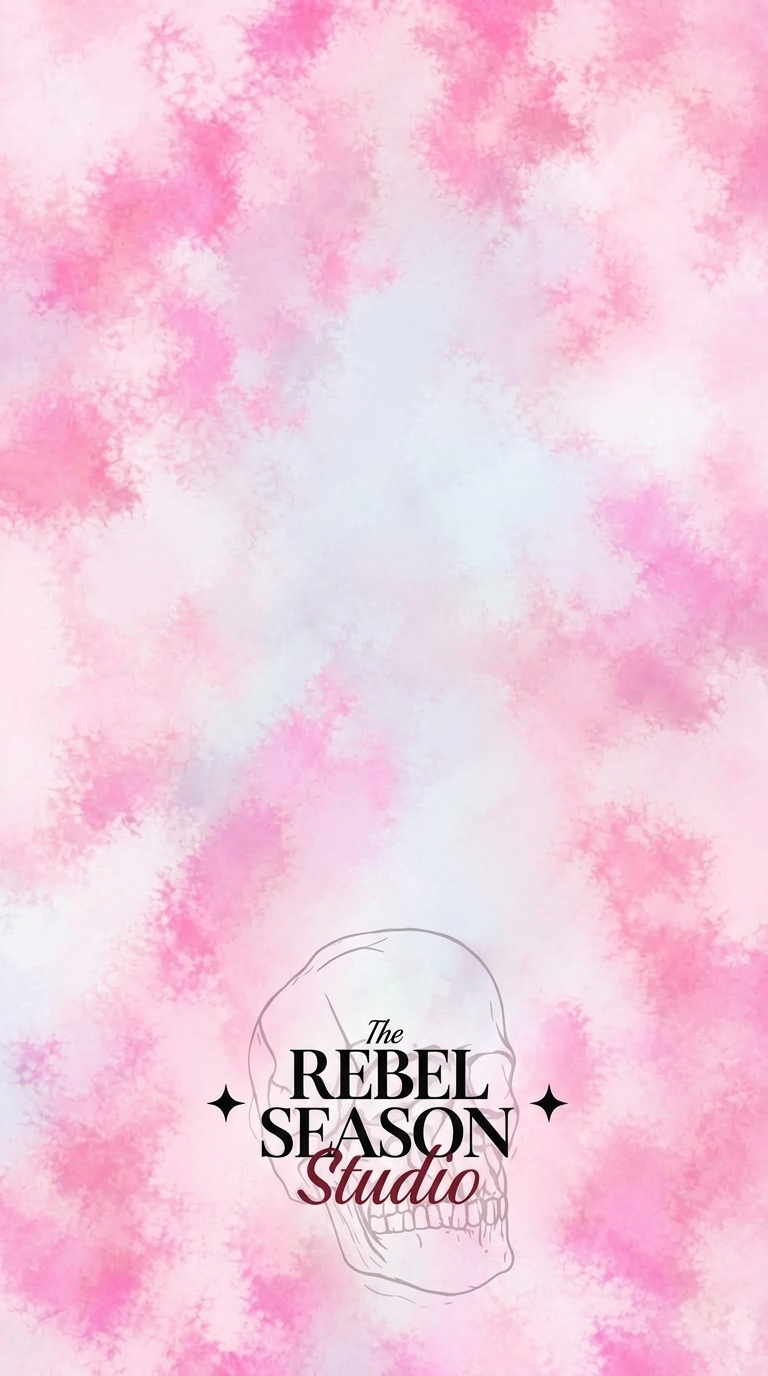
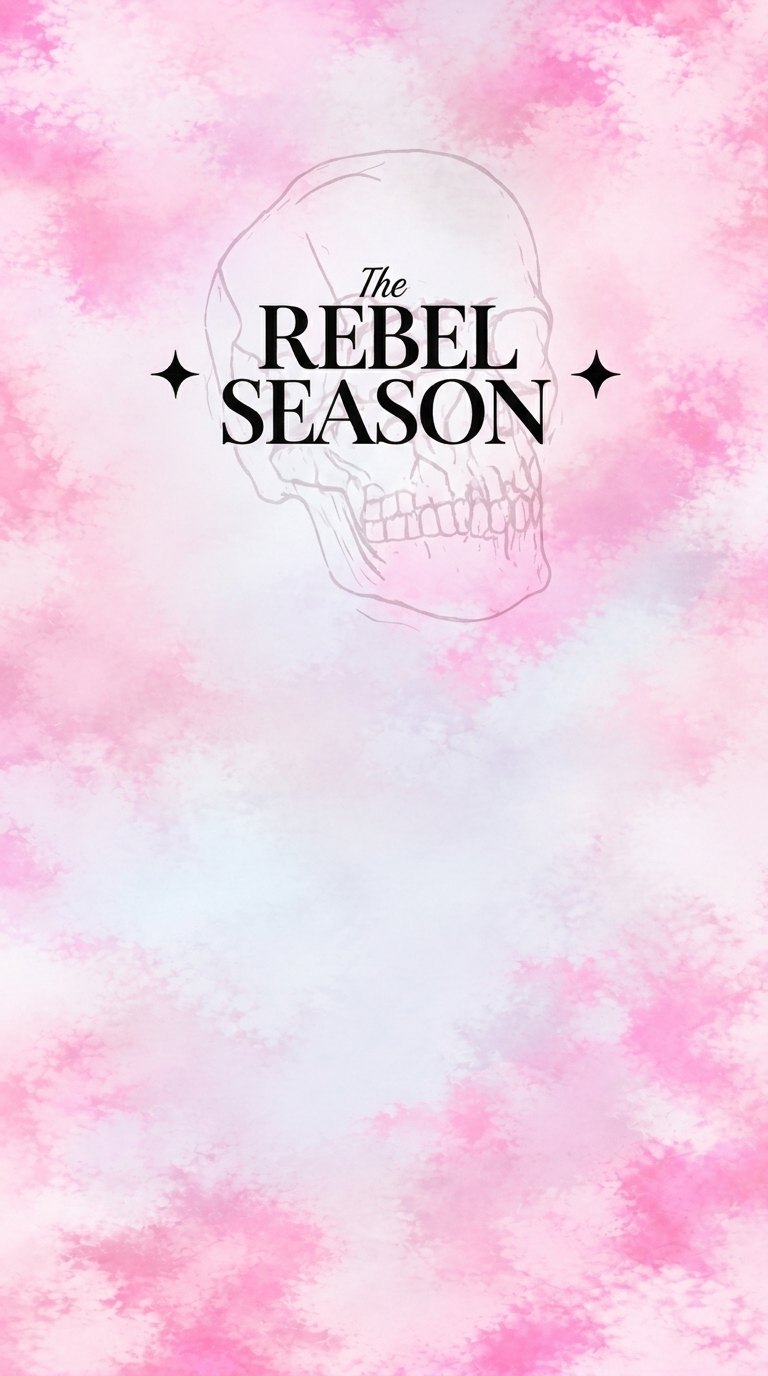
fix: adjust mobile and tablet hero background images
- Regenerated hero-bg-mobile and hero-bg-tablet to explicitly move the skull into the upper half of the image
- Restored responsive div layering in Hero.tsx to apply these dedicated mobile and tablet images
- Resolves issue where the skull graphic was overlapping with the 'Browse our latest products' text on smaller screens

diff --git a/src/components/home/Hero.tsx b/src/components/home/Hero.tsx
@@ -4,14 +4,19 @@ import { Button } from "@/components/ui/button";
 export function Hero() {
   return (
     <section 
-      className="relative w-full overflow-hidden flex items-end pb-12 lg:pb-0 lg:items-center bg-cover bg-[position:85%_center] md:bg-right lg:bg-center bg-no-repeat"
+      className="relative w-full overflow-hidden flex items-end pb-12 lg:pb-0 lg:items-center"
       style={{ 
         minHeight: '600px', 
         height: '85vh', 
-        maxHeight: '850px',
-        backgroundImage: "url('/hero-bg-taller.jpg?v=1')"
+        maxHeight: '850px'
       }}
     >
+      {/* Mobile Background */}
+      <div className="absolute inset-0 bg-cover bg-center block md:hidden" style={{ backgroundImage: "url('/hero-bg-mobile.jpg?v=3')" }} />
+      {/* Tablet Background */}
+      <div className="absolute inset-0 bg-cover bg-center hidden md:block lg:hidden" style={{ backgroundImage: "url('/hero-bg-tablet.jpg?v=3')" }} />
+      {/* Desktop Background */}
+      <div className="absolute inset-0 bg-cover bg-right lg:bg-center hidden lg:block" style={{ backgroundImage: "url('/hero-bg-taller.jpg?v=2')" }} />
       <div className="relative z-10 max-w-[1600px] mx-auto px-6 sm:px-8 lg:px-12 w-full pt-16">
         <div className="max-w-md">
           <h1 className="font-heading text-[2.5rem] sm:text-5xl md:text-6xl lg:text-7xl font-normal leading-[1.2] sm:leading-[1.1] mb-8 text-foreground drop-shadow-sm md:drop-shadow-none">
